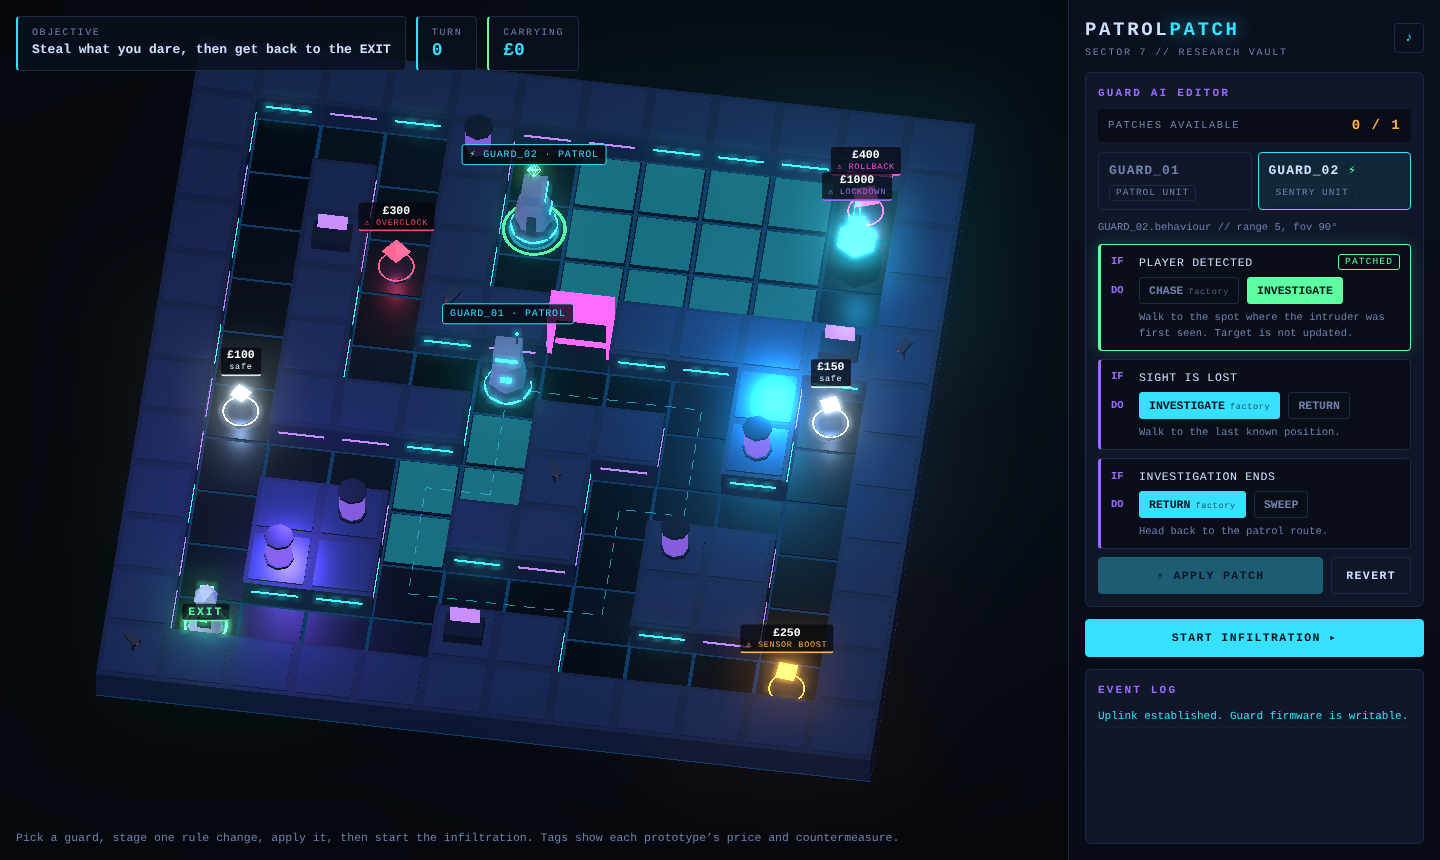
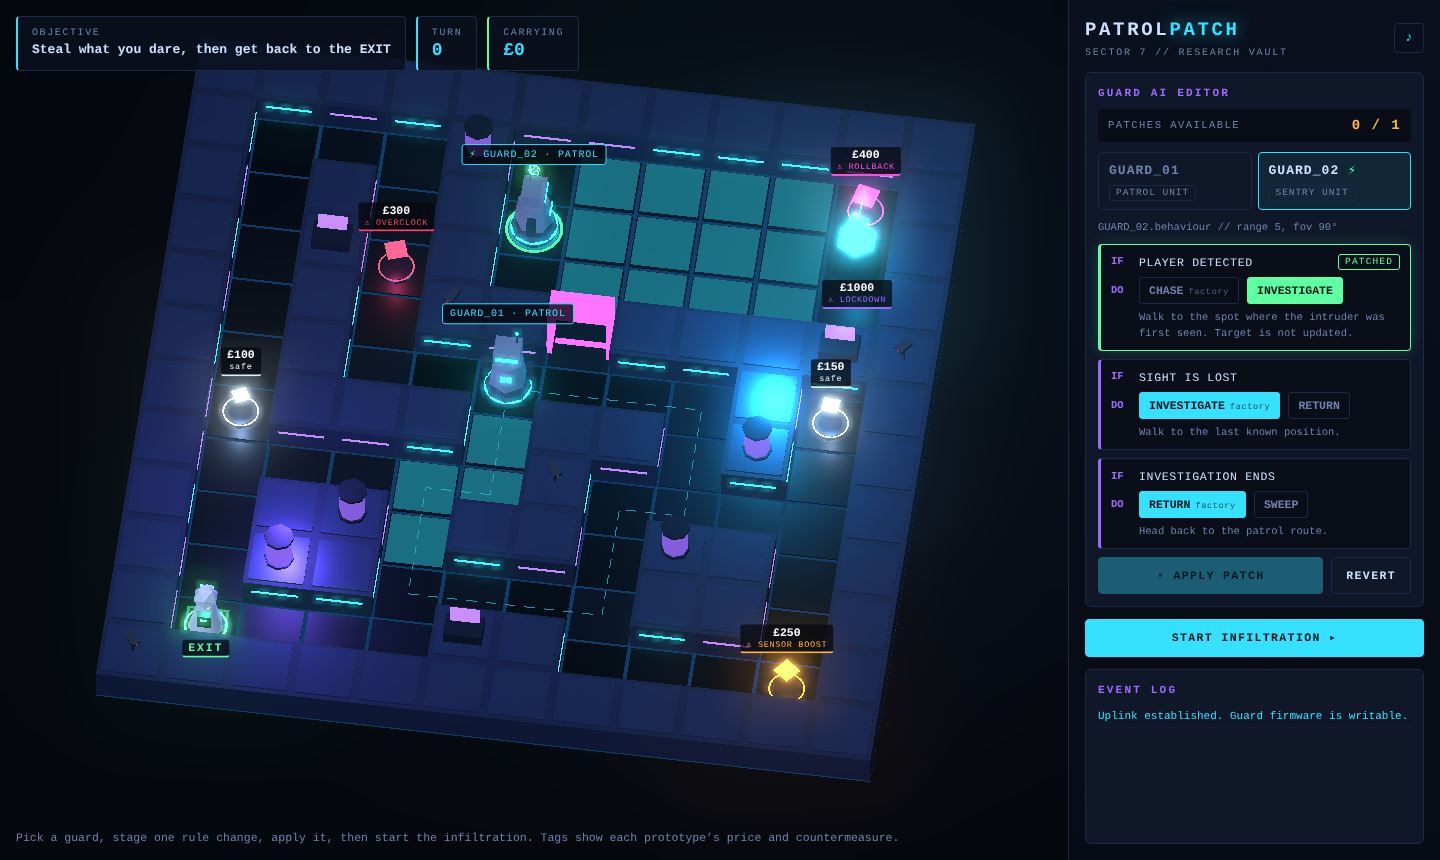
Keep price tags readable: terminal and exit tags hang below their tile
Claude-Session: https://claude.ai/code/session_01XXTX1T6eEkHWc4CKFTcqTA

diff --git a/src/render/scene.ts b/src/render/scene.ts
@@ -40,7 +40,7 @@ export class LabScene {
   private readonly guards: GuardModel[] = [];
   private readonly cones: { tiles: THREE.Mesh[]; material: THREE.MeshBasicMaterial }[] = [];
   private readonly labels: HTMLDivElement[] = [];
-  private readonly pins: { el: HTMLDivElement; at: THREE.Vector3; id: string | null }[] = [];
+  private readonly pins: { el: HTMLDivElement; at: THREE.Vector3; id: string | null; below: boolean }[] = [];
   private readonly labelLayer: HTMLDivElement;
   private readonly selection: THREE.Mesh;
   private readonly clock = new THREE.Clock();
@@ -105,13 +105,14 @@ export class LabScene {
       el.innerHTML = `<b>£${a.value}</b>${a.curse ? `<span>⚠ ${CURSES[a.curse].name}</span>` : '<span>safe</span>'}`;
       el.title = `${a.name}${a.curse ? ' — ' + CURSES[a.curse].summary : ''}`;
       this.labelLayer.appendChild(el);
-      this.pins.push({ el, at: tileToWorld(level, a.pos, a.terminal ? 1.75 : 1.0), id: a.id });
+      // The terminal's tag hangs below it so it never collides with loot on the tile behind.
+      this.pins.push({ el, at: tileToWorld(level, a.pos, a.terminal ? 0 : 1.0), id: a.id, below: !!a.terminal });
     }
     const exitEl = document.createElement('div');
     exitEl.className = 'loot-label exit';
     exitEl.innerHTML = '<b>EXIT</b>';
     this.labelLayer.appendChild(exitEl);
-    this.pins.push({ el: exitEl, at: tileToWorld(level, level.start, 0.1), id: null });
+    this.pins.push({ el: exitEl, at: tileToWorld(level, level.start, 0), id: null, below: true });
 
     this.selection = new THREE.Mesh(
       new THREE.RingGeometry(0.42, 0.47, 32),
@@ -298,7 +299,7 @@ export class LabScene {
       this.projected.copy(pin.at).project(this.camera);
       const x = (this.projected.x * 0.5 + 0.5) * w;
       const y = (-this.projected.y * 0.5 + 0.5) * h;
-      pin.el.style.transform = `translate(-50%, -100%) translate(${x.toFixed(1)}px, ${y.toFixed(1)}px)`;
+      pin.el.style.transform = `translate(-50%, ${pin.below ? '14px' : '-100%'}) translate(${x.toFixed(1)}px, ${y.toFixed(1)}px)`;
     }
   }
 }
